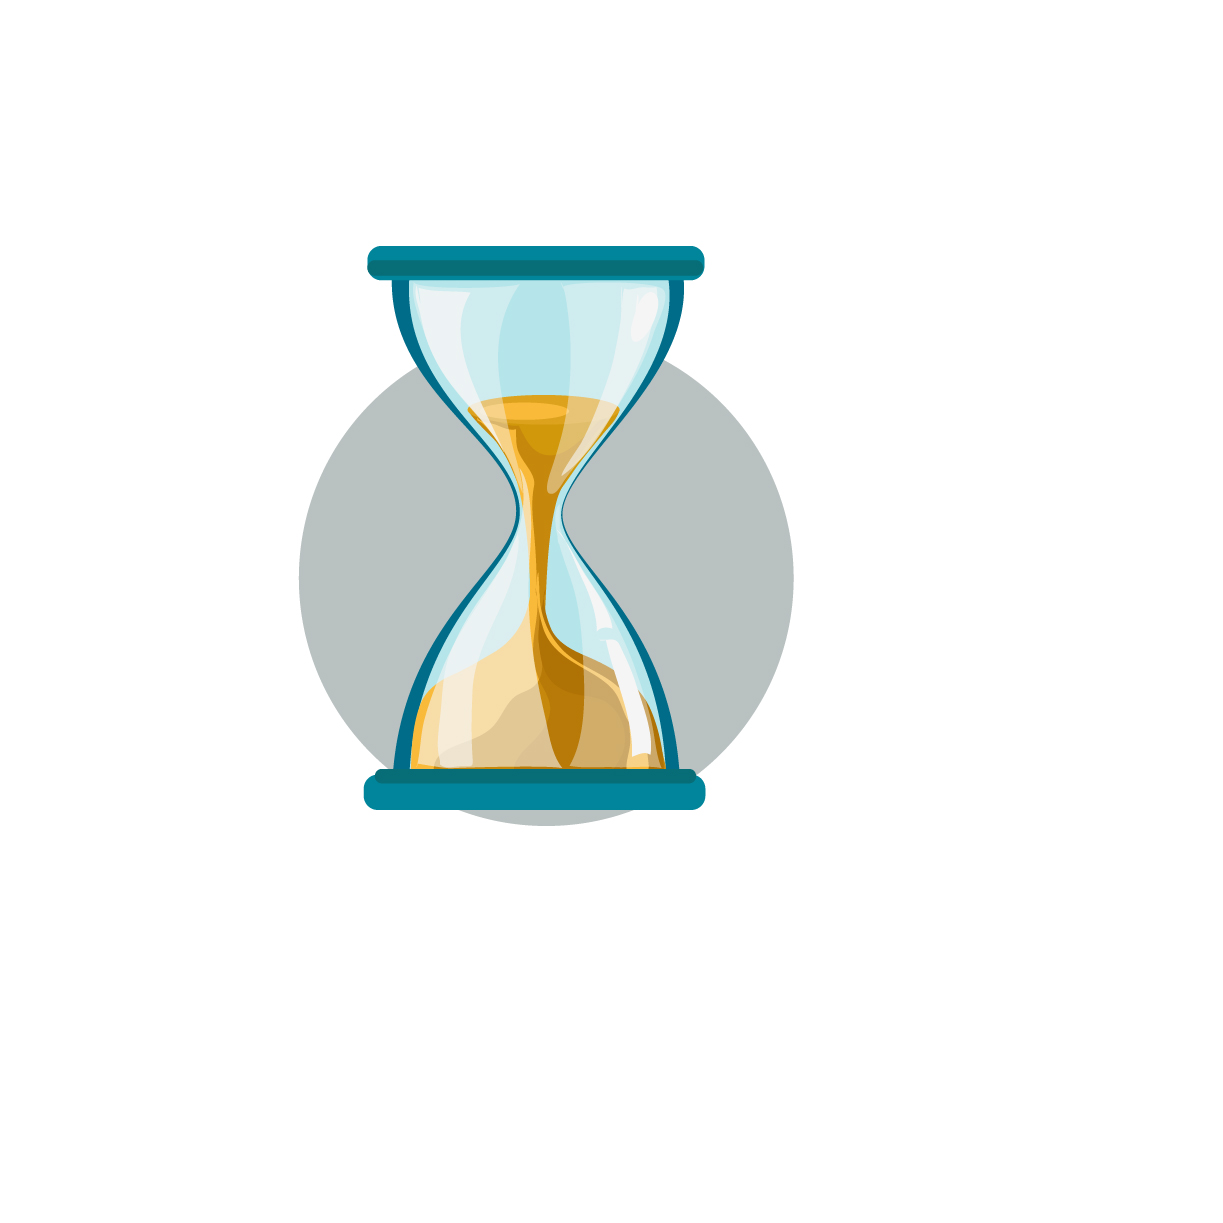
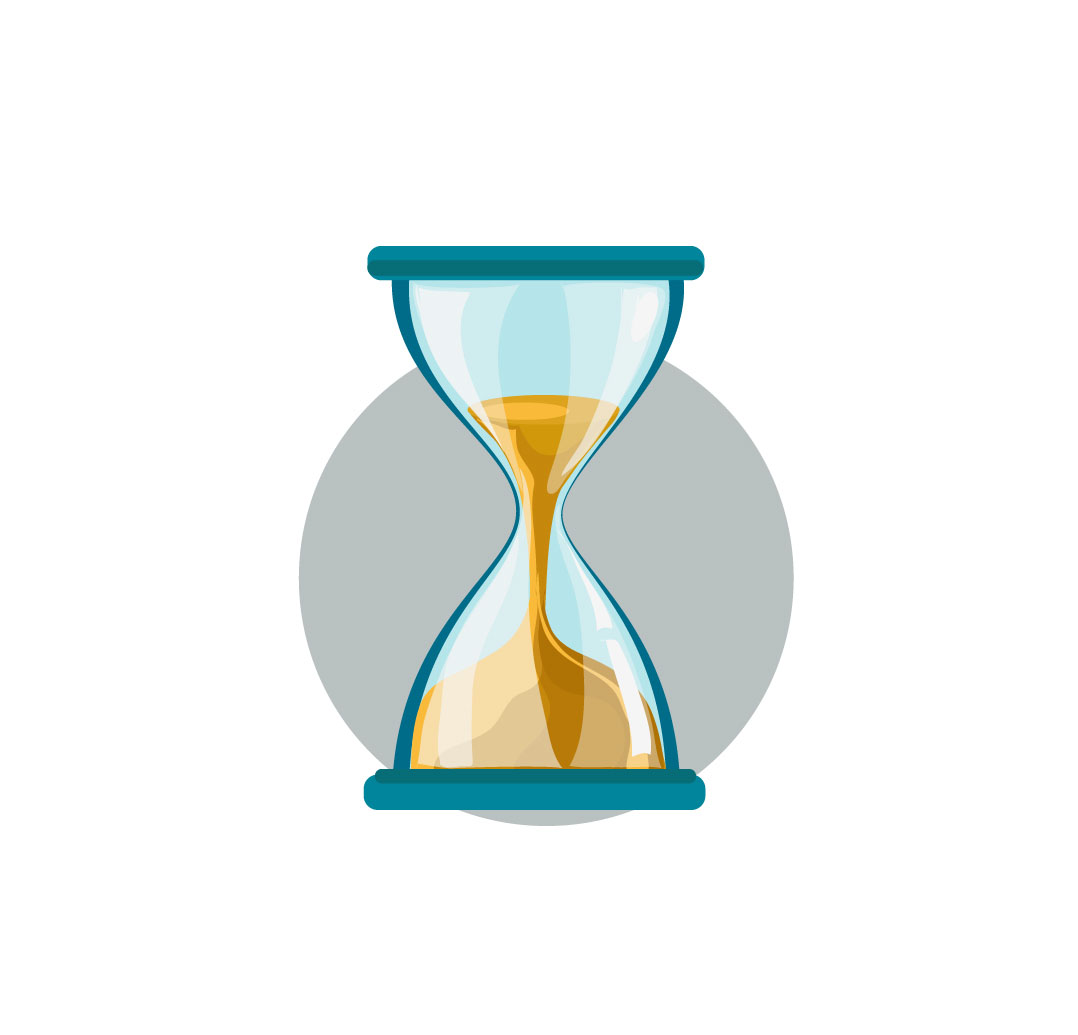
調整版型 壓縮圖片

Changed region(s): [[0.2449, 0.1855, 0.7347, 0.8039]]

diff --git a/index.html b/index.html
@@ -131,8 +131,7 @@
                 <div data-animation="bounceIn" data-timeout="0" class="revealOnScroll" id="service_img">
                 <img class="img-fluid rounded-circle" src="img/p4-1.jpg" alt=""></div>
                 <div id="service_fes">雜誌</div>
-                <div id="service_pop_text">關注文化、時尚、<br>旅行、設計</div>
-
+                <div id="service_pop_text">關注文化、時尚、<br>旅行、設計&emsp;&emsp;&emsp;</div>
               </div>
               <div id="service_dres">
                 <div data-animation="bounceIn" data-timeout="0" class="revealOnScroll" id="service_img">
@@ -254,7 +253,7 @@
             if ($this.data('timeout')) { 
               window.setTimeout(function(){ 
                 $this.addClass('animated ' + $this.data('animation')); 
-              }, parseInt($this.data('timeout'),3)); 
+              }, parseInt($this.data('timeout'),8)); 
             } else { 
               $this.addClass('animated ' + $this.data('animation')); 
             } 

diff --git a/css/index.css b/css/index.css
@@ -151,20 +151,20 @@ header{
 #skill_dres{
   display: inline-block;/*讓div並排*/ 
   vertical-align: top;/*就算個個div行數不同，也一律向上對齊*/ 
-  width: 14%;
-  padding: 4%;
+  width: 18%;
+  padding: 2%;
   border-radius:3px;margin: 2px;
 }
 
 .rounded-circle{
-  
+  max-width: 60% !important;
 }
 
 #service_dres{
   display: inline-block;/*讓div並排*/ 
   vertical-align: top;/*就算個個div行數不同，也一律向上對齊*/ 
-  width: 14%;
-  padding: 4%;
+  width: 18%;
+  padding: 2%;
   color: #444444 ;
   border-radius:3px;margin: 2px;
 }
@@ -194,8 +194,8 @@ header{
 
 #service_pop_text{
   width: 100%;
-  margin: auto;
-  text-align: left;
+  margin: 0px auto;
+  text-align: center;
   font-size: 18px;
   color: #8e8e8e ;
   letter-spacing: 1px;
@@ -224,7 +224,7 @@ header{
 }
 
 #conact_sec{
-  height: 90vh;
+  height: 100vh;
 }
 
 #client_row{
